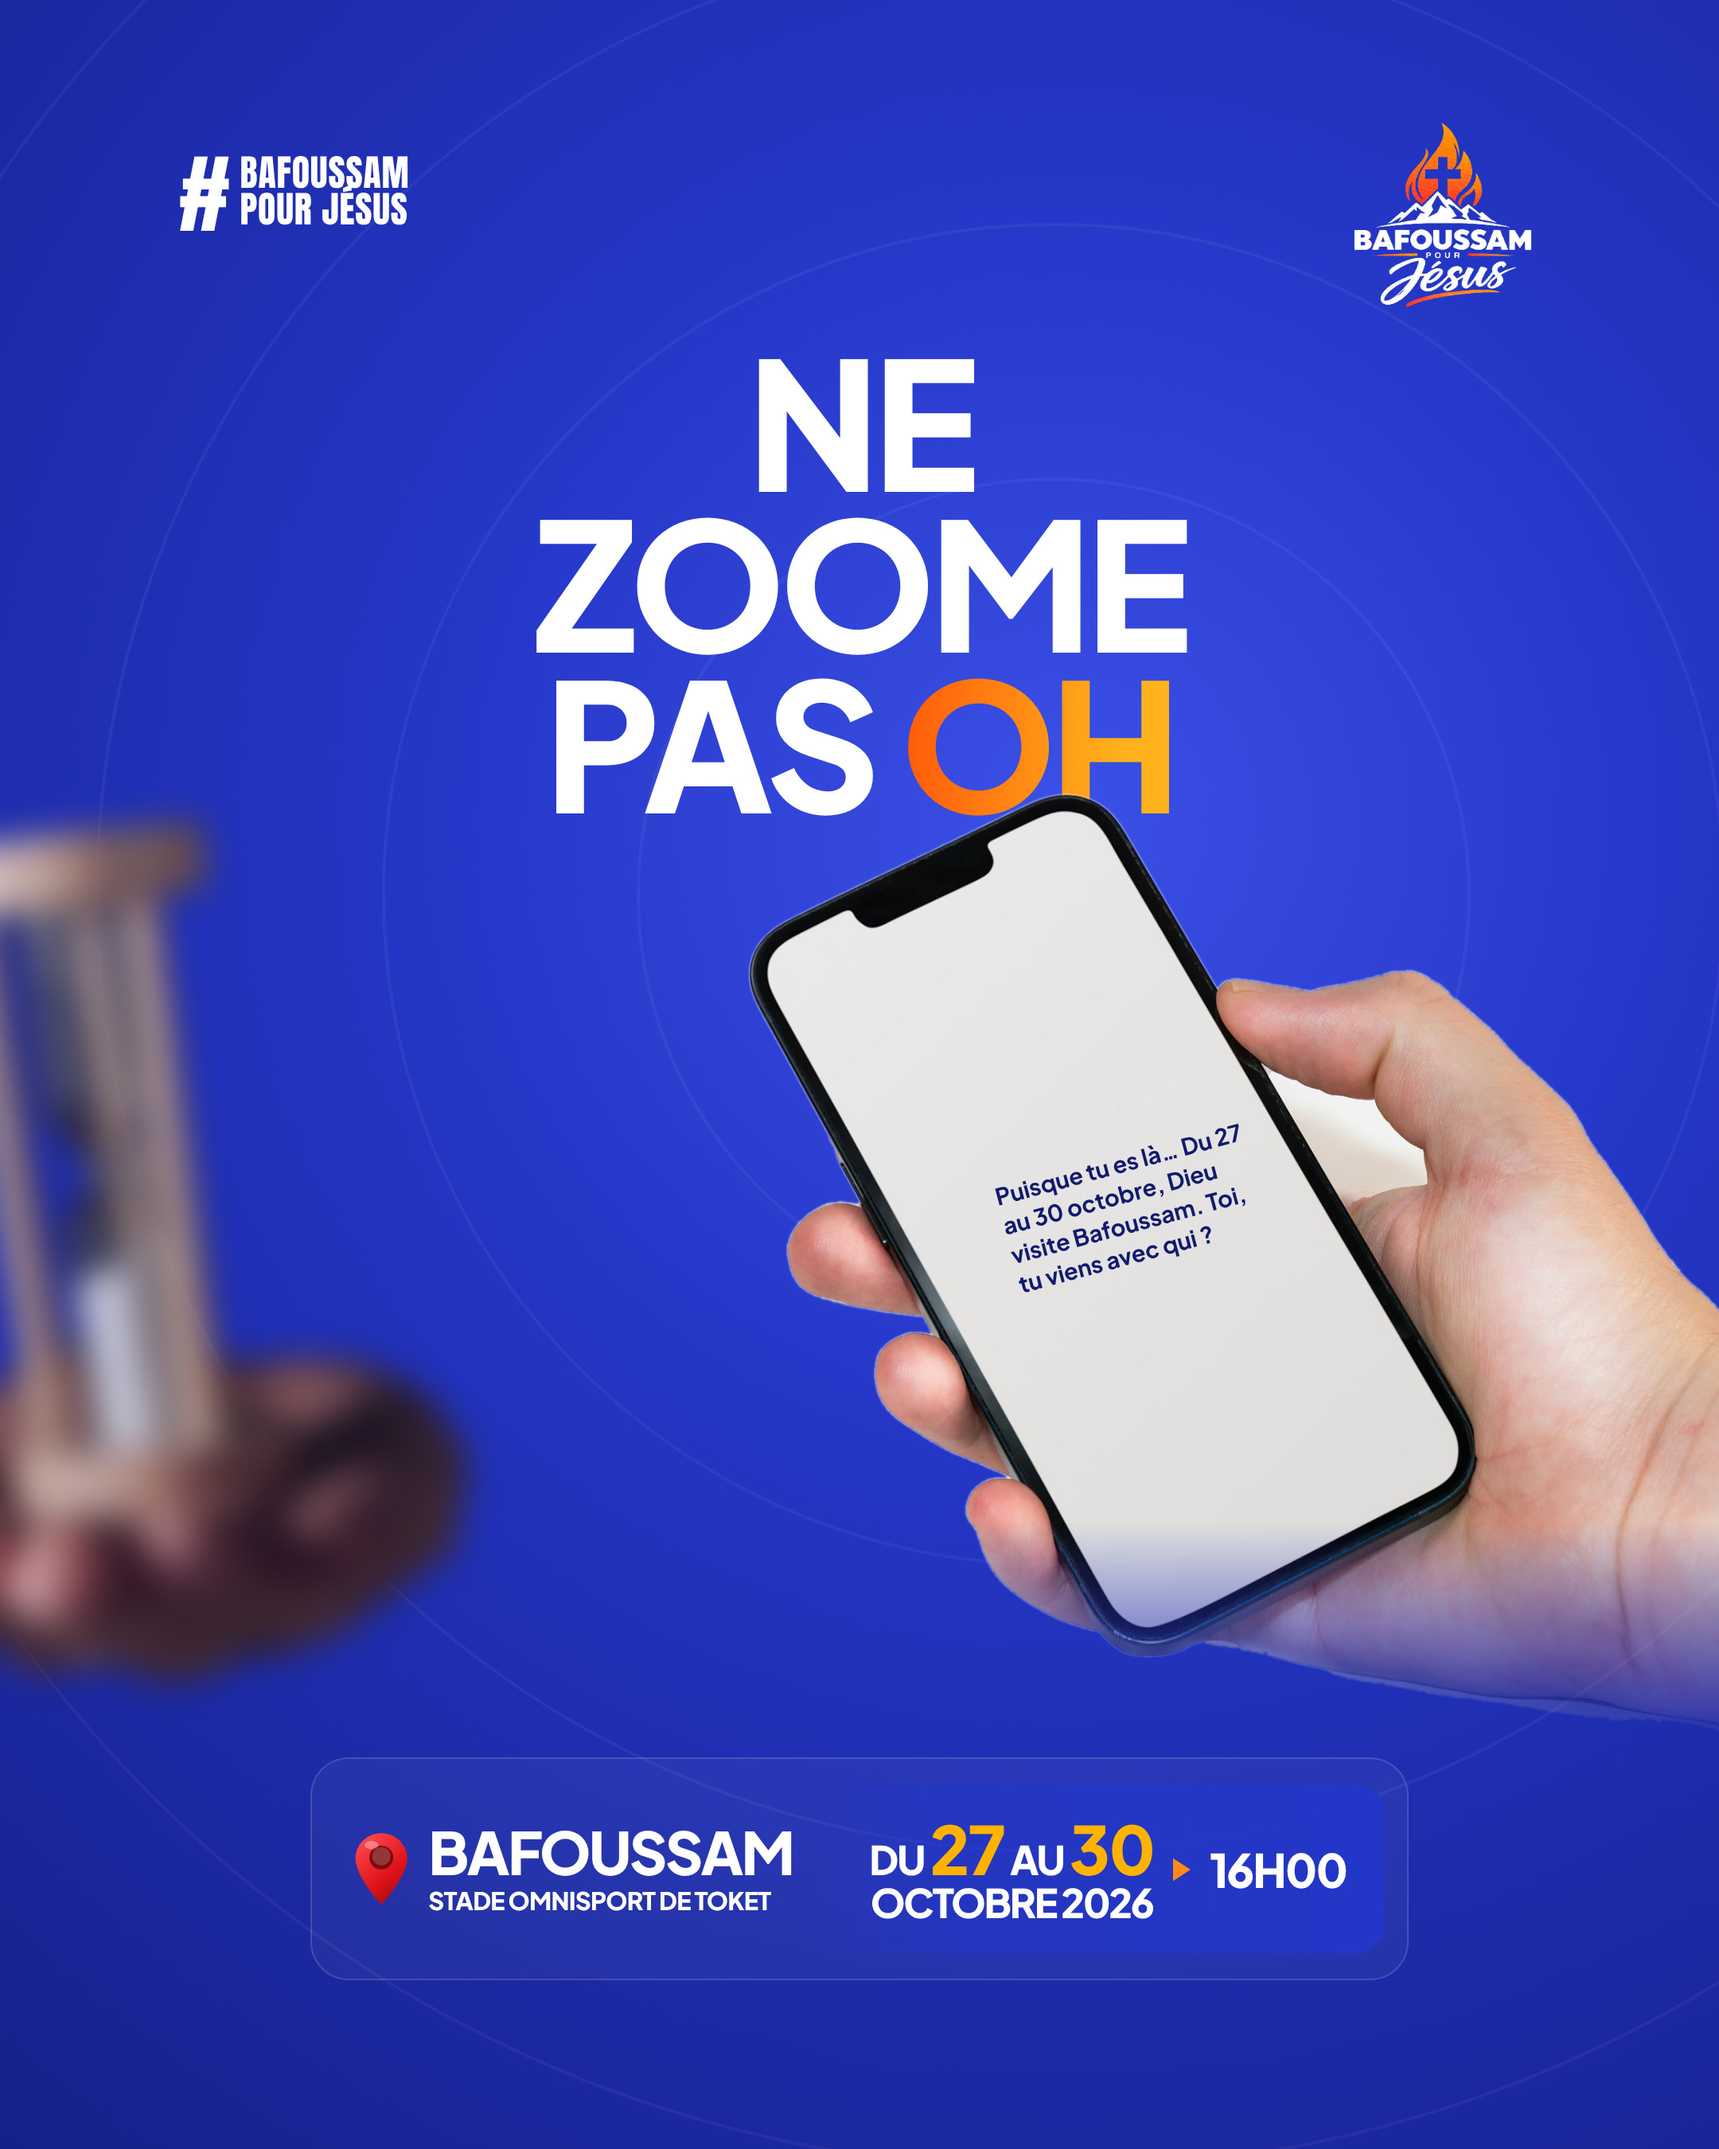
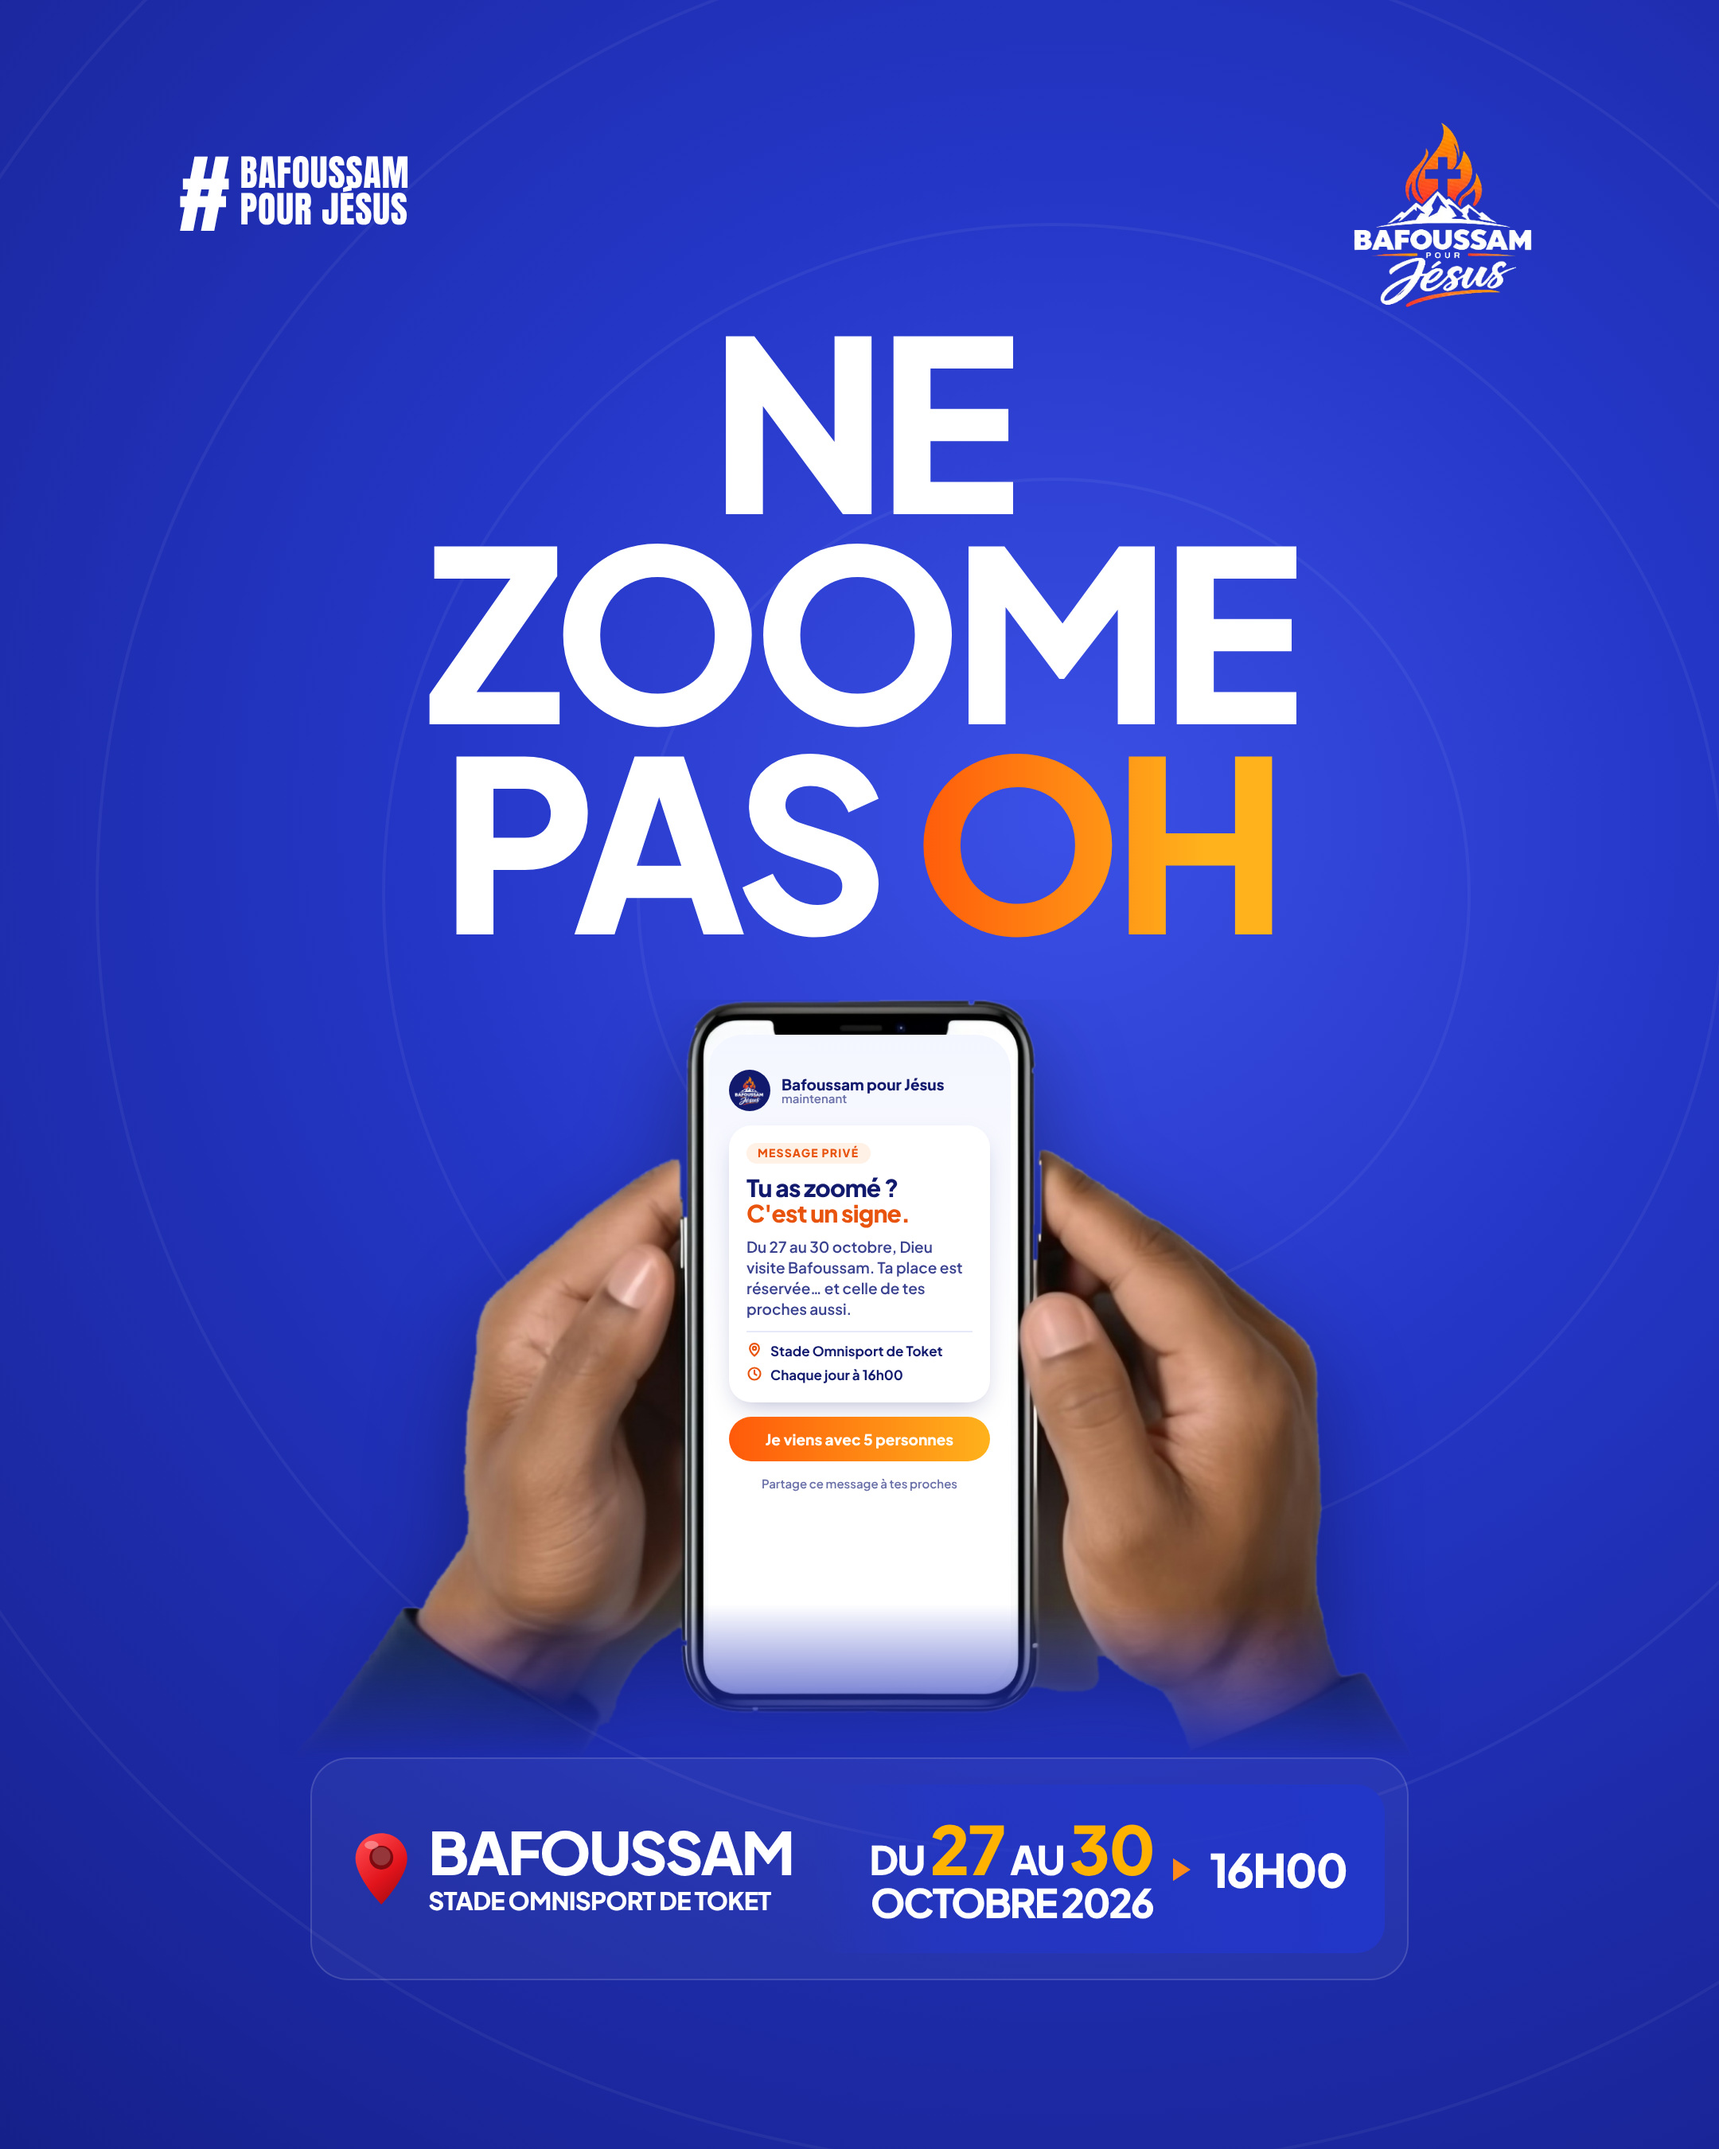
Rework 'Ne zoome pas oh' post: African hands, larger title, centered phone with message card
Claude-Session: https://claude.ai/code/session_01K2snVpLoB8gVsJdrFhEJhT

diff --git a/bafoussam-pour-jesus/posts-accroche/sources/Teaser1.dc.html b/bafoussam-pour-jesus/posts-accroche/sources/Teaser1.dc.html
@@ -25,11 +25,29 @@ a{color:#FFB21C}a:hover{color:#FF6A13}
     <div style="font-family: 'Anton', sans-serif; font-size: 23px; line-height: 1.02; letter-spacing: 0.4px">BAFOUSSAM<br>POUR JÉSUS</div>
   </div>
   <img src="/_blob/aca34e13aa891166ecdd96ac9e451601" alt="Bafoussam pour Jésus" style="position: absolute; right: 108px; top: 70px; width: 126px; height: 128px">
-  <img src="/_blob/df720892bc42eab372abce8078f6b67a" alt="" style="position: absolute; left: -150px; top: 520px; width: 420px; height: 545px; filter: blur(11px); opacity: 0.85; transform: rotate(-10deg)">
-  <div style="position: absolute; left: 0; right: 0; top: 214px; text-align: center; font-size: 112px; font-weight: 800; line-height: 0.9; letter-spacing: -4px">NE<br>ZOOME<br>PAS <span style="background: linear-gradient(90deg, #FF5A0A 0%, #FFB21C 80%); -webkit-background-clip: text; background-clip: text; color: transparent">OH</span></div>
-  <div style="position: absolute; left: 470px; top: 498px; width: 660px; height: 619px; -webkit-mask-image: linear-gradient(180deg, #000 74%, rgba(0,0,0,0) 97%); mask-image: linear-gradient(180deg, #000 74%, rgba(0,0,0,0) 97%)">
-    <img src="/_blob/e52782e90313f82398562f11af3dbf51" alt="Une main tient un téléphone" style="position: absolute; inset: 0; width: 660px; height: 619px">
-    <div style="position: absolute; left: 160px; top: 222px; width: 168px; transform: rotate(-15deg); font-size: 14.5px; font-weight: 700; line-height: 1.3; color: #121A6E">Puisque tu es là… Du 27 au 30 octobre, Dieu visite Bafoussam. Toi, tu viens avec qui ?</div>
+  <div style="position: absolute; left: 0; right: 0; top: 196px; text-align: center; font-size: 150px; font-weight: 800; line-height: 0.88; letter-spacing: -6px">NE<br>ZOOME<br>PAS <span style="background: linear-gradient(90deg, #FF5A0A 0%, #FFB21C 80%); -webkit-background-clip: text; background-clip: text; color: transparent">OH</span></div>
+  <div style="position: absolute; left: 175px; top: 628px; width: 730px; height: 487px; -webkit-mask-image: linear-gradient(180deg, #000 78%, rgba(0,0,0,0) 98%); mask-image: linear-gradient(180deg, #000 78%, rgba(0,0,0,0) 98%)">
+    <img src="/_blob/ba62f84f8eeee050688c99060fb8af0f" alt="Deux mains tiennent un téléphone" style="position: absolute; inset: 0; width: 730px; height: 487px; filter: drop-shadow(0 26px 30px rgba(0,0,0,0.35))">
+    <div style="position: absolute; left: 270px; top: 22px; width: 190px; height: 410px; box-sizing: border-box; border-radius: 22px; background: linear-gradient(180deg, #F4F6FF 0%, #FFFFFF 55%); padding: 22px 13px 12px; display: flex; flex-direction: column; gap: 9px; font-family: 'Plus Jakarta Sans', sans-serif; color: #121A6E">
+      <div style="display: flex; align-items: center; gap: 7px">
+        <div style="width: 26px; height: 26px; border-radius: 50%; background: #121A6E; display: flex; align-items: center; justify-content: center; flex-shrink: 0"><img src="/_blob/aca34e13aa891166ecdd96ac9e451601" alt="" style="width: 20px; height: 20px"></div>
+        <div style="display: flex; flex-direction: column; line-height: 1.1">
+          <div style="font-size: 9.5px; font-weight: 800">Bafoussam pour Jésus</div>
+          <div style="font-size: 7.5px; font-weight: 600; color: #6A70A8">maintenant</div>
+        </div>
+      </div>
+      <div style="border-radius: 14px; background: #FFFFFF; box-shadow: 0 6px 16px -6px rgba(18,26,110,0.35); padding: 11px 11px 12px; display: flex; flex-direction: column; gap: 7px">
+        <div style="align-self: flex-start; padding: 2px 7px; border-radius: 999px; background: #FFF1E6; color: #E8540E; font-size: 7px; font-weight: 800; letter-spacing: 0.6px">MESSAGE PRIVÉ</div>
+        <div style="font-size: 15px; font-weight: 800; line-height: 1.05; letter-spacing: -0.4px">Tu as zoomé ?<br><span style="color: #E8540E">C'est un signe.</span></div>
+        <div style="font-size: 9.5px; font-weight: 600; line-height: 1.38; color: #3A4290">Du 27 au 30 octobre, Dieu visite Bafoussam. Ta place est réservée… et celle de tes proches aussi.</div>
+        <div style="display: flex; flex-direction: column; gap: 4px; padding-top: 6px; border-top: 1px solid #E6E9F7; font-size: 8.5px; font-weight: 700">
+          <div style="display: flex; align-items: center; gap: 5px"><svg width="10" height="10" viewBox="0 0 24 24" fill="none" stroke="#E8540E" stroke-width="2.6" stroke-linecap="round" stroke-linejoin="round" aria-hidden="true"><path d="M12 21s-7-6.2-7-11.5A7 7 0 0 1 19 9.5C19 14.8 12 21 12 21z"/><circle cx="12" cy="9.5" r="2.5"/></svg>Stade Omnisport de Toket</div>
+          <div style="display: flex; align-items: center; gap: 5px"><svg width="10" height="10" viewBox="0 0 24 24" fill="none" stroke="#E8540E" stroke-width="2.6" stroke-linecap="round" stroke-linejoin="round" aria-hidden="true"><circle cx="12" cy="12" r="9"/><path d="M12 7v5l3 2"/></svg>Chaque jour à 16h00</div>
+        </div>
+      </div>
+      <div style="border-radius: 999px; background: linear-gradient(90deg, #FF5A0A 0%, #FFB21C 100%); color: #FFFFFF; text-align: center; padding: 8px 6px; font-size: 9.5px; font-weight: 800">Je viens avec 5 personnes</div>
+      <div style="text-align: center; font-size: 7.5px; font-weight: 600; color: #6A70A8">Partage ce message à tes proches</div>
+    </div>
   </div>
 
   <div style="position: absolute; left: 195px; width: 690px; top: 1104px; height: 140px; box-sizing: border-box; border-radius: 24px; background: rgba(255,255,255,0.045); border: 1.5px solid rgba(255,255,255,0.14); display: flex; align-items: center; gap: 12px; padding: 0 14px 0 26px">

diff --git a/bafoussam-pour-jesus/posts-accroche/CREDITS.md b/bafoussam-pour-jesus/posts-accroche/CREDITS.md
@@ -1,6 +1,6 @@
 # Posts accroche — crédits photos (licence Unsplash, usage libre)
 
-- 01 Ne zoome pas oh : téléphone en main photo-1717390758666 (Jakub Żerdzicki) ; sablier photo-1769029256458 (Sasun Bughdaryan)
+- 01 Ne zoome pas oh : mains tenant un téléphone photo-1691207737881 (personalgraphic.com)
 - 02 J-5 : sablier photo-1769029256458 (Sasun Bughdaryan)
 - 03 Ça va chauffer : flammes photo-1635194983462 (Elisabeth Arnold)
 - 04 Lève la main : photo-1551357176 (Random Institute)
